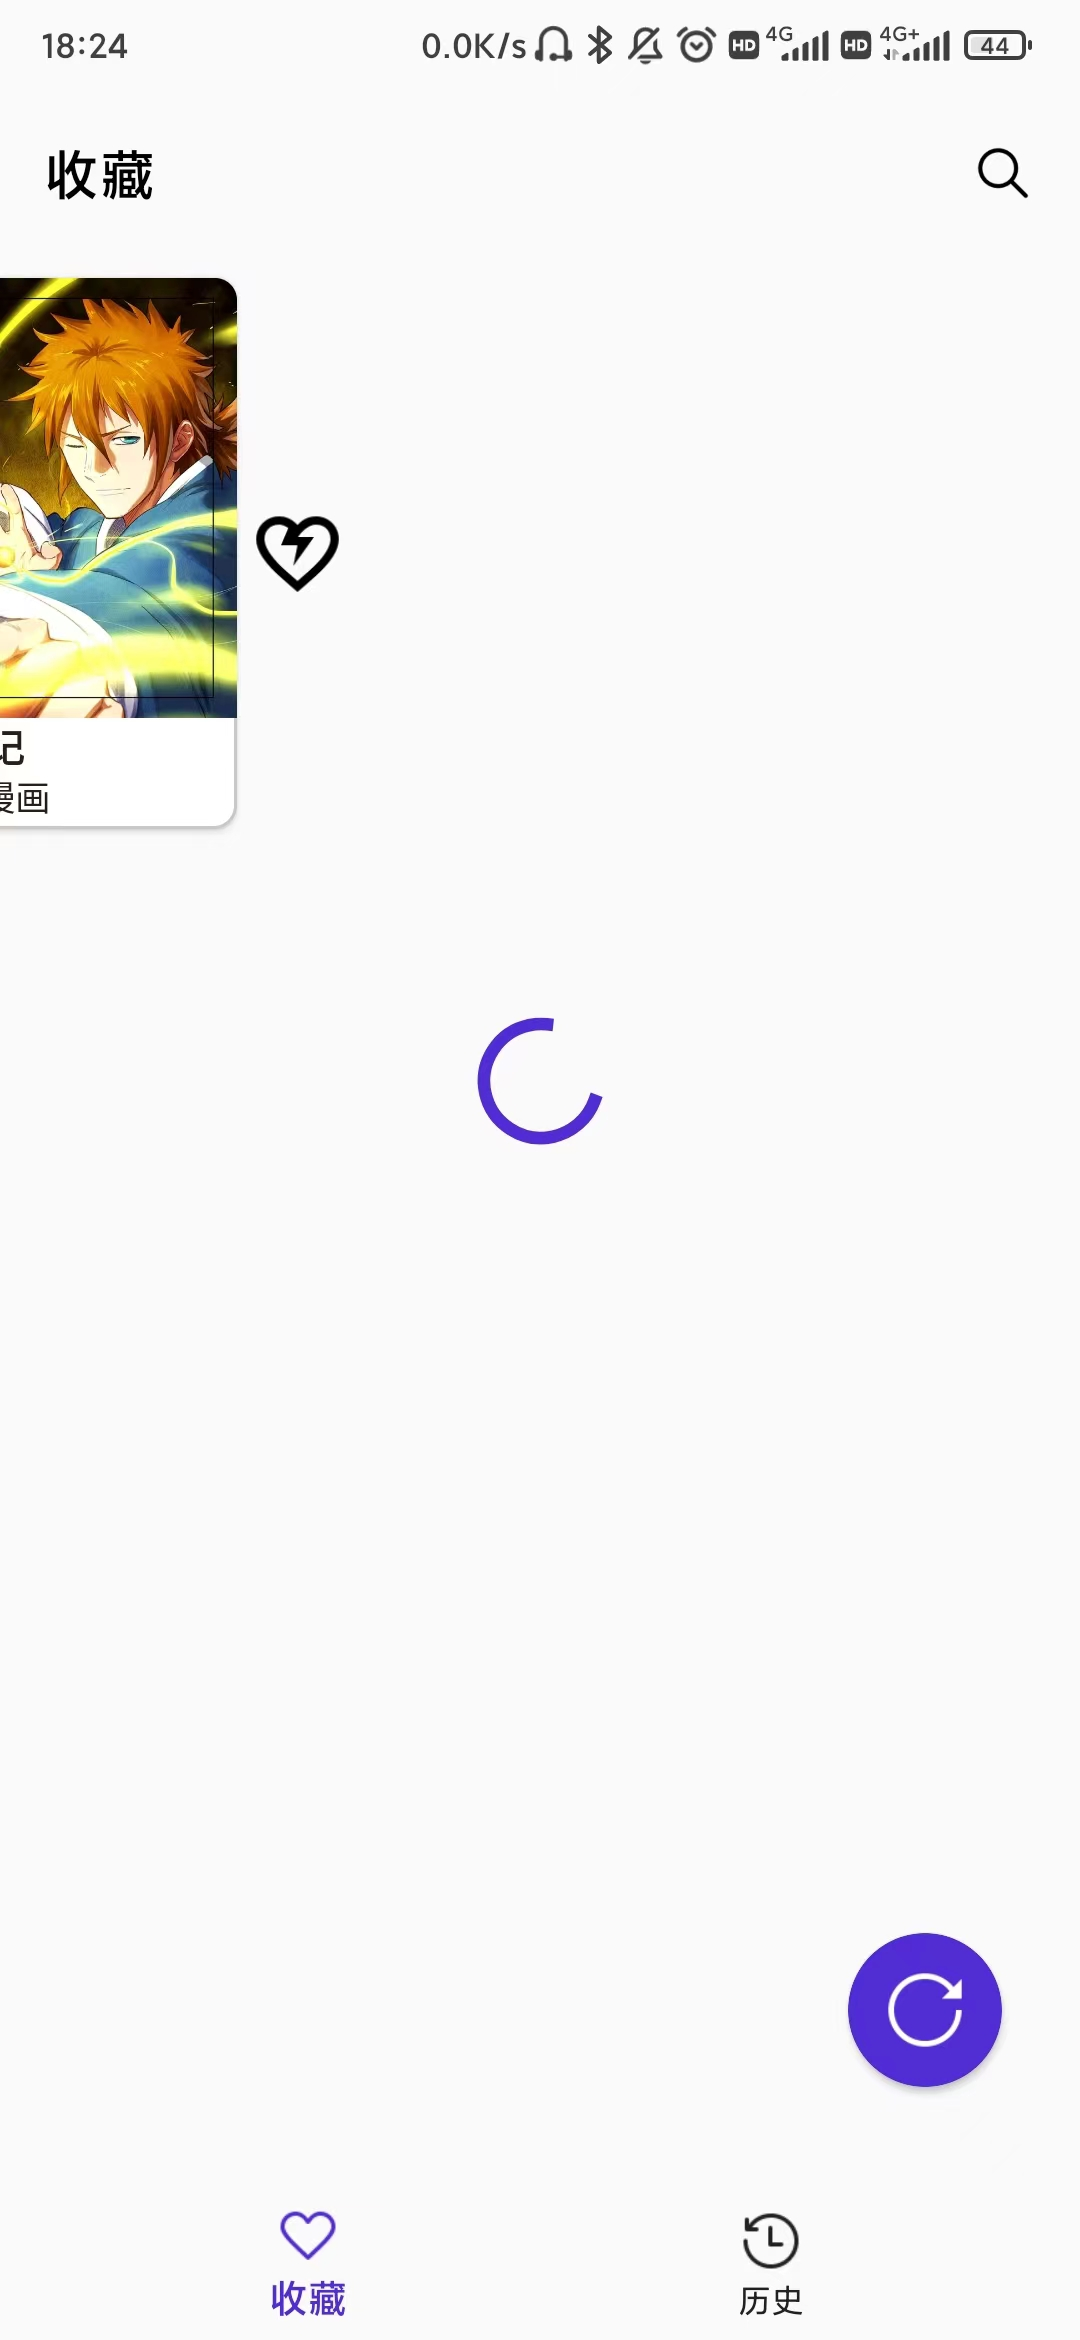
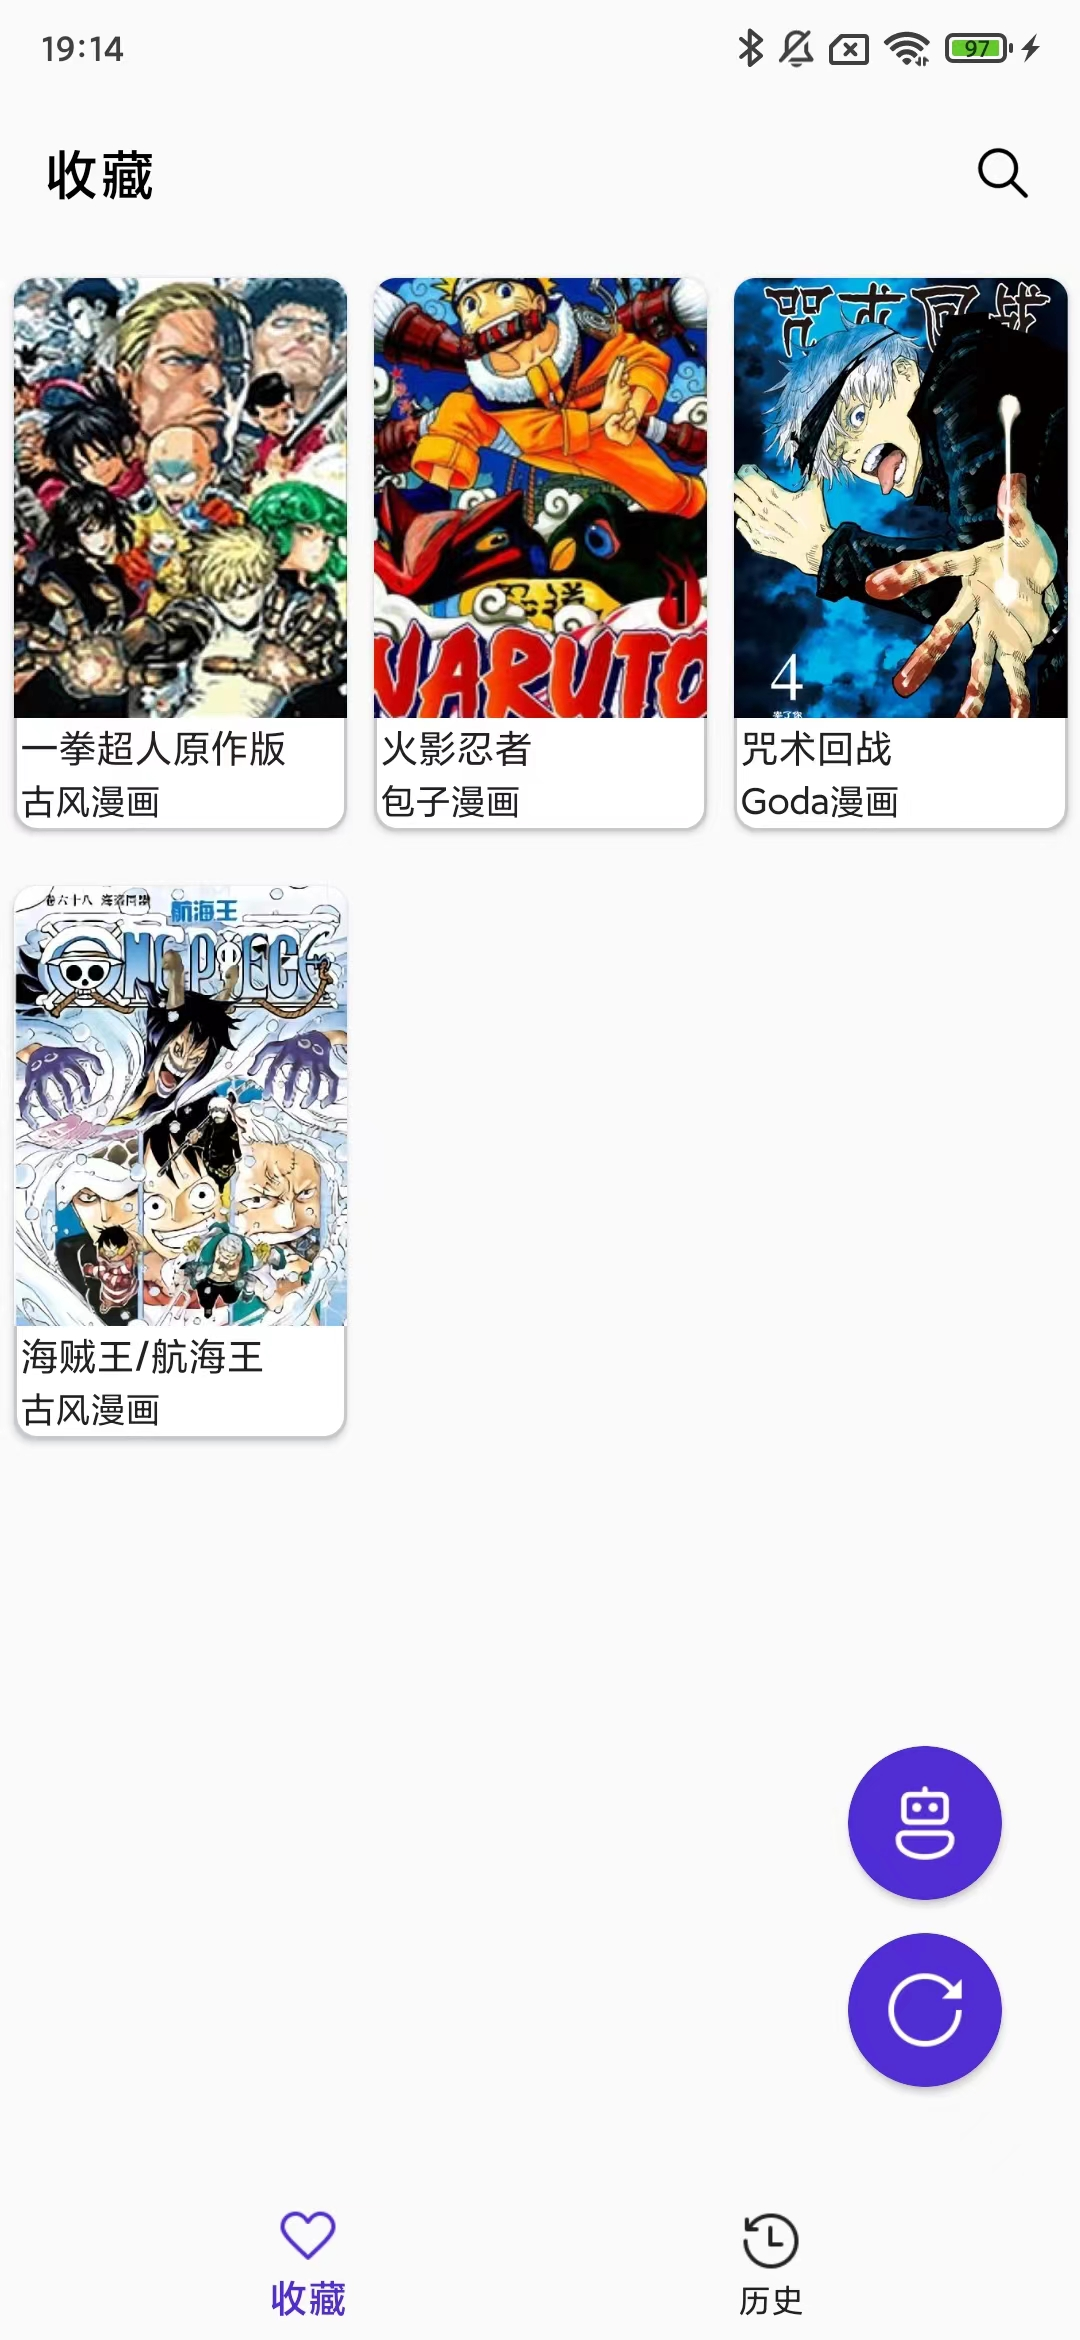
修改ai图标，更新项目介绍文件，增加部分提醒

diff --git a/BrilliantComic/Views/FavoritePage.xaml b/BrilliantComic/Views/FavoritePage.xaml
@@ -91,13 +91,10 @@
             <Frame.GestureRecognizers>
                 <TapGestureRecognizer Command="{Binding JumpToAIPageCommand}" Tapped="TapGestureRecognizer_Tapped" />
             </Frame.GestureRecognizers>
-            <Label
-                FontAttributes="Bold"
-                FontSize="Default"
-                HorizontalOptions="Center"
-                Text="AI"
-                TextColor="White"
-                VerticalOptions="Center" />
+            <Image
+                HeightRequest="40"
+                Source="ai.png"
+                WidthRequest="40" />
         </Frame>
         <Frame
             Margin="280,576,0,0"
